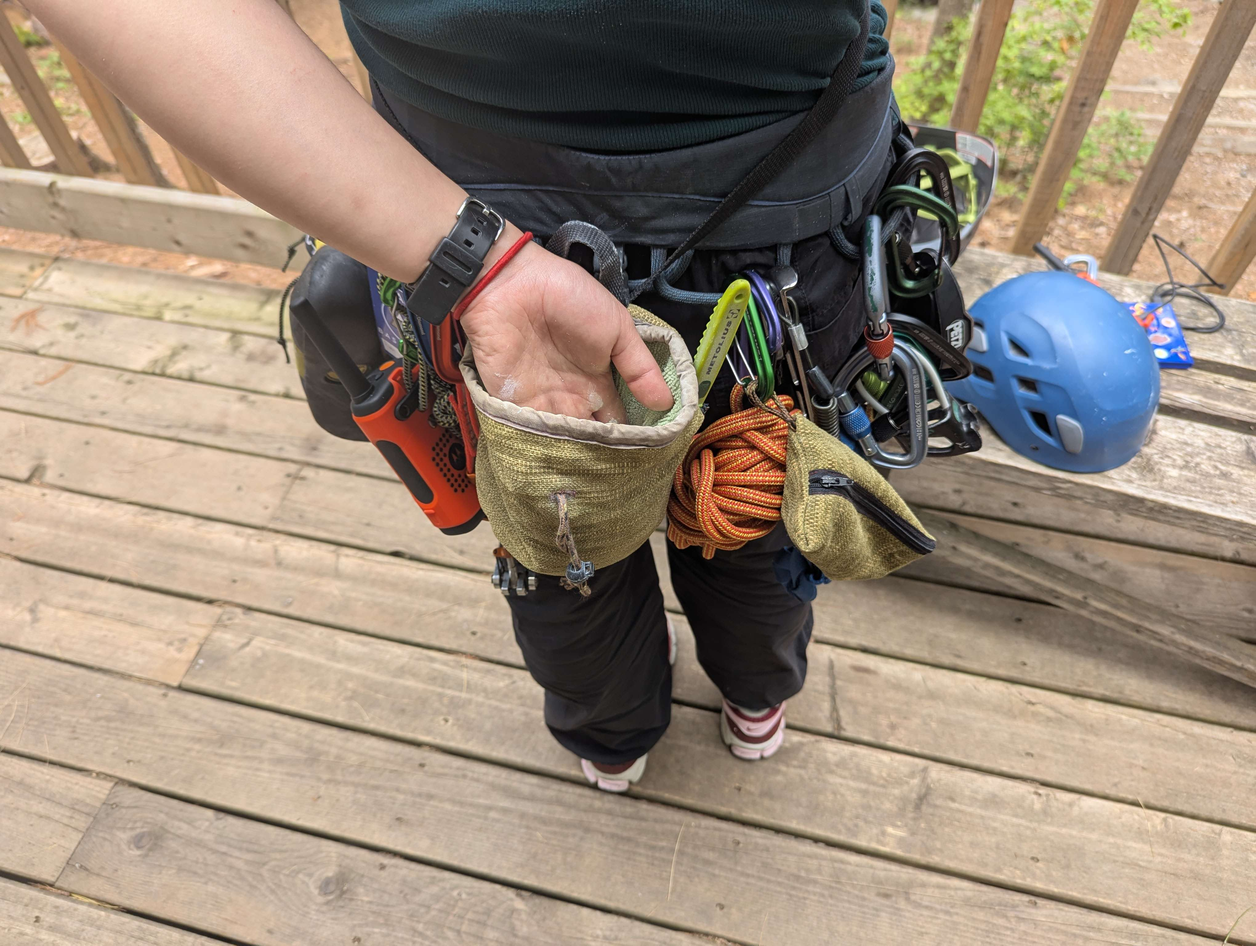
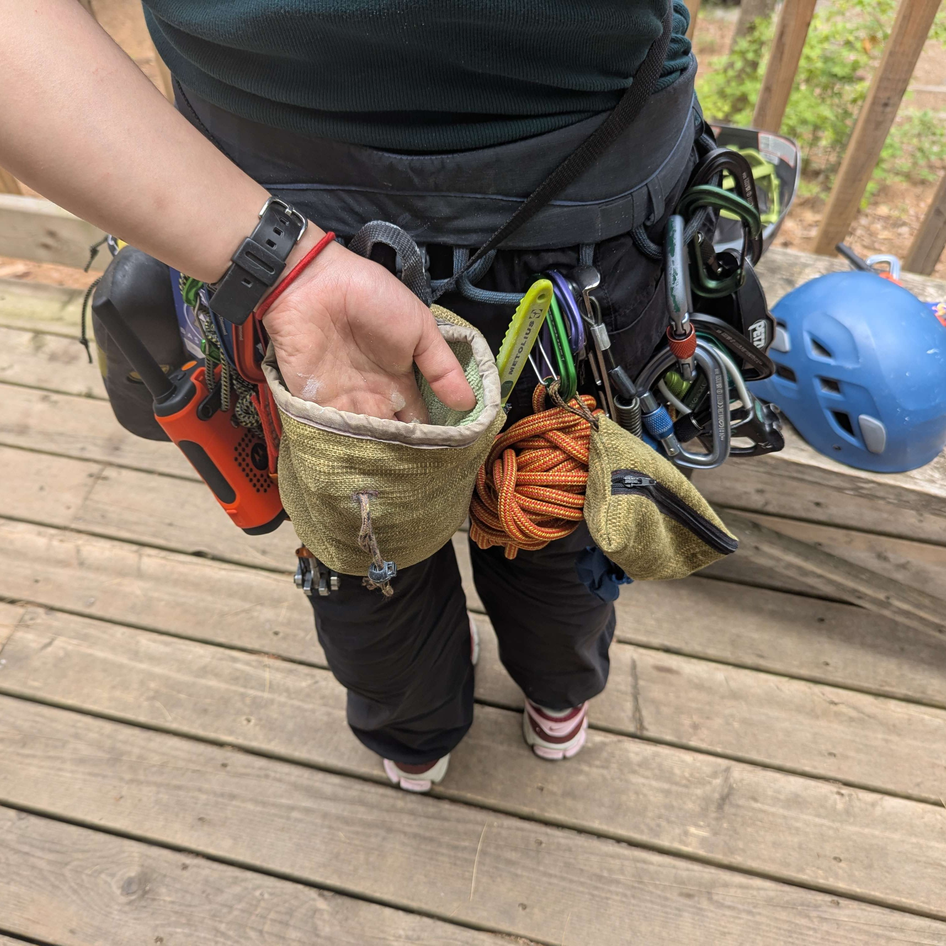
Add chalk bag

diff --git a/chalkbag.html b/chalkbag.html
@@ -48,15 +48,27 @@
 				<!-- Main -->
 					<div id="main">
 						<div class="inner">
-							<h1>GENERIC (REPLACE)</h1>
-							<div class="about-flex">
-								<span class="image" style="flex-shrink:0;">
-									<img src="images/raysa-headshot.jpg" alt="headshot of Raysa" style="width:200px; height:auto;"/>
-								</span>
-								<div>
+							<h1>Chalk Bag (Ver. 1)</h1>
+							<div class="about-flex", style="flex-direction: column;">
+                                <div style="display: flex; gap: 10px; flex-wrap: wrap; margin-bottom: 20px;">
+                                    <span class="image" style="flex-shrink:0;">
+                                        <img src="images/chalkbag1.jpg" alt="" style="width:250px; height:auto;"/>
+                                    </span>
+                                    <span class="image" style="flex-shrink:0;">
+                                        <img src="images/chalkbag2.jpg" alt="" style="width:250px; height:auto;"/>
+                                    </span>
+                                    <span class="image" style="flex-shrink:0;">
+                                        <img src="images/chalkbag4.jpg" alt="" style="width:250px; height:auto;"/>
+                                    </span>
+                                </div>
+                                <div>
 									<p>
-										Hi there, my name is Raysa! I have been sewing for over 12 years, and am passionate about garment making. I draft all of my own patterns, and I like to upcycle fabric, which adds an extra challenge! You have to get pretty creative to fit all of your pattern pieces into a small strip of fabric. This page is a collection of my favourite pieces, with details about my design process.
+										I made this chalk bag for rock climbing since none of the ones I found in stores were quite what I wanted. I used a scrap of tough upholstery fabric for the exterior, and lined it with a soft microfibre towel. I added a drawstring closure at the top to keep the chalk from spilling out, zippered pockets, and a waist strap.
+                                        Using the leftover scraps of upholstery fabric, I made a matching case for my belay glasses.
 									</p>
+                                    <p>
+                                        If I were to make it again I would use a grommet for the drawstring hole, add an elastic loop for my chalkbrush, and use a thinner fleece material for the inner lining.
+                                    </p>
 								</div>
 							</div>
 						</div>
